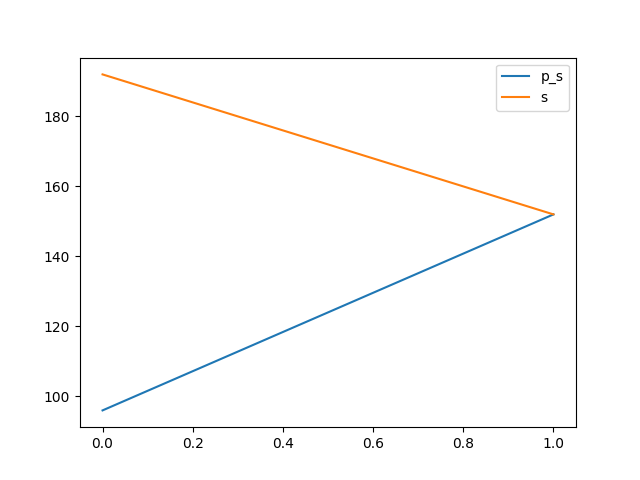
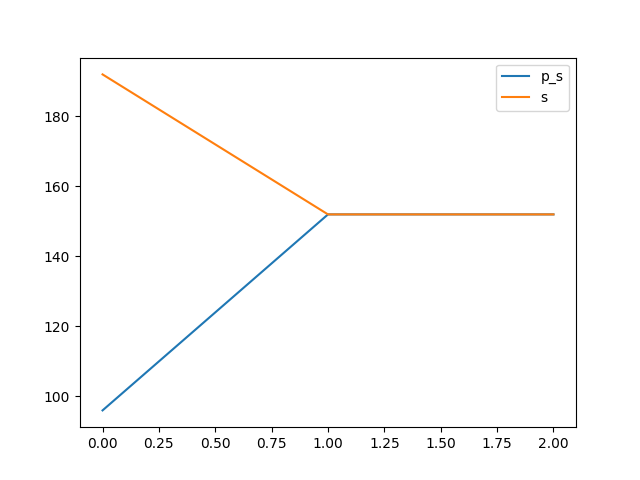
0x0002

diff --git a/benchmark.md b/benchmark.md
@@ -28,3 +28,14 @@ xychart-beta
 ```
  avg_p_s=124.0 avg_s=172.0 avg_pr=3.5 avg_r=3.5
 
+Synthesising 0x0002 pexact:152 r=3 exact:152 r=3
+
+```mermaid
+xychart-beta
+    title Comparison powertwoexact twoexact
+    x-axis [0, 1, 2]
+    line [96, 152, 152]
+    line [192, 152, 152]
+```
+ avg_p_s=133.33 avg_s=165.33 avg_pr=3.33 avg_r=3.33
+
